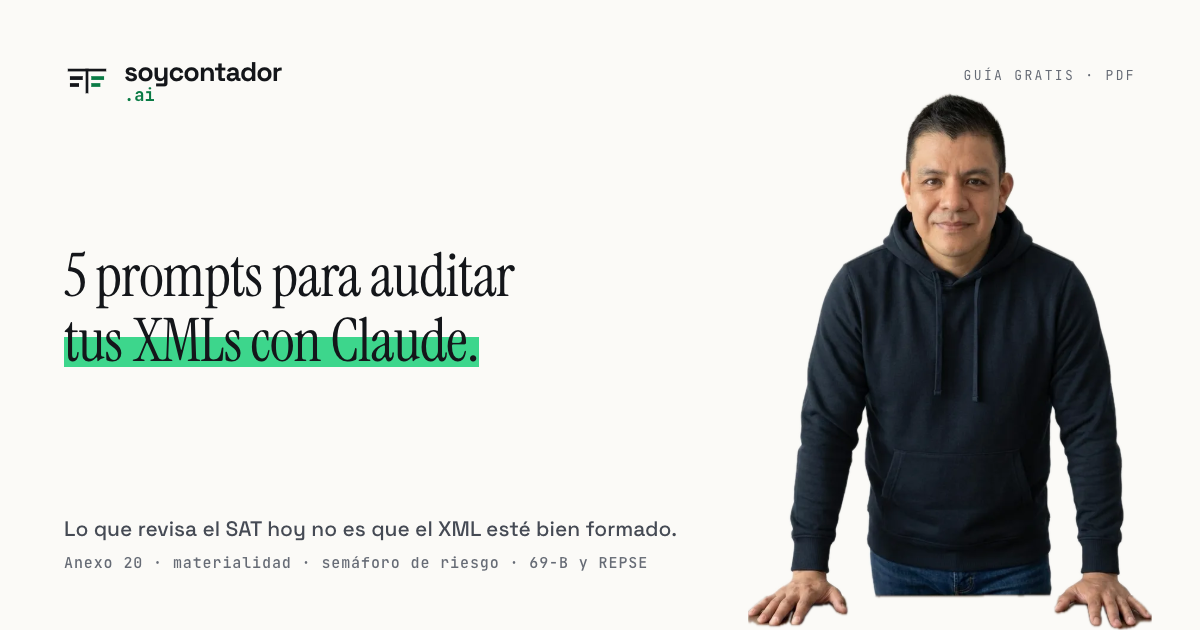
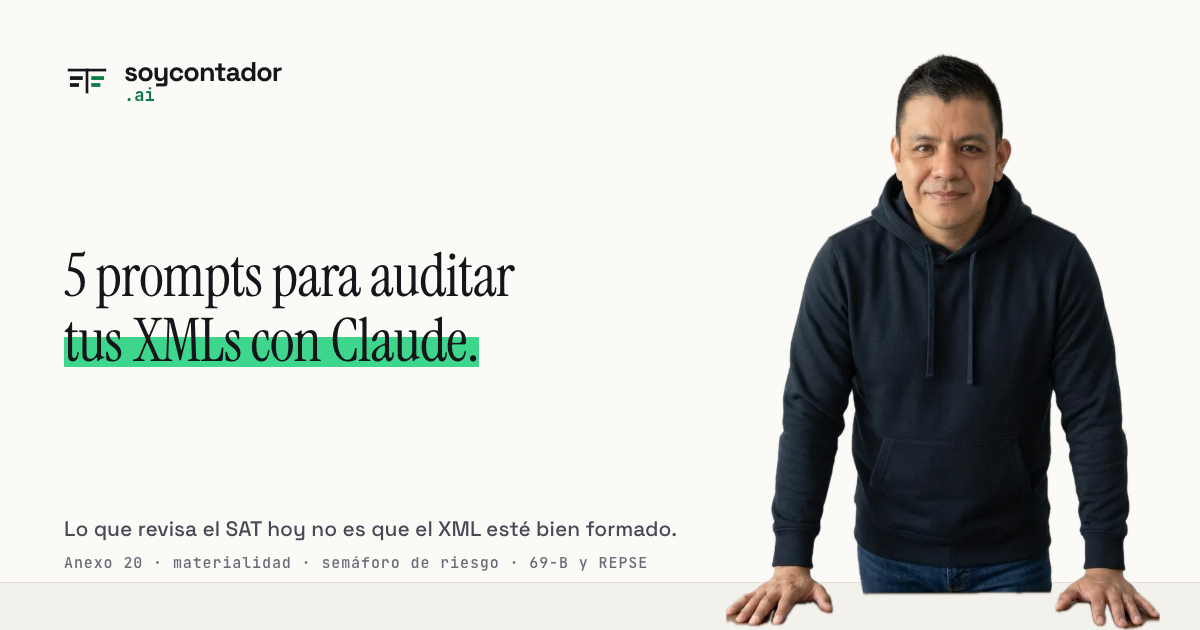
Las tarjetas pierden el folio y ganan retrato
Tres ajustes de Israel sobre los OG nuevos.

El folio de la esquina derecha se va de las tres. Repetía lo que ya dice el
titular y obligaba a bajar el retrato de 434 a 404px para no chocar con él.
Sin folio vuelve al tamaño de og-default, que es el que se ve bien.

/diagnostico cambia de invita-saco a arms-saco. La razón no es la pose en sí
sino que vive junto a /despachos en Destacados: con la misma pose las dos
tarjetas se leen como la misma repetida. Y el H1 de esa página es una
pregunta que interpela, así que los brazos cruzados acompañan mejor que una
invitación cálida.

/audita estrena .mesa. El retrato es la pose "apoyado", con las manos
plantadas sobre una superficie que el recorte no trae, así que descansaban
sobre el aire. Es una banda del surface de la marca con su filete, detrás de
la figura y con el borde a la altura de las manos. No es un mueble dibujado:
la geometría basta para que la figura se apoye en algo, y evita generar un
prop por i2i con el riesgo de deriva que eso trae.

Build OK.

Changed region(s): [[0.5858, 0.0905, 0.9867, 1.0], [0.8633, 0.6333, 0.8942, 0.7841], [0.8633, 0.0905, 0.8942, 0.1206]]

diff --git a/design/og/og-audita.html b/design/og/og-audita.html
@@ -39,8 +39,27 @@
   --accent: #0A7B45;
   --marker: #3DD68C;
   --line: #E3E0D8;
+  --surface: #F3F1EB;
 }
 * { margin: 0; padding: 0; box-sizing: border-box; }
+
+/*
+  La mesa. Existe por una razón concreta: el retrato es la pose "apoyado", con
+  las manos plantadas sobre una superficie que en el recorte no existe, así que
+  sin esto las manos descansan sobre el aire. Es una banda del papel de la
+  marca con su filete, no un mueble dibujado: la geometría basta para que la
+  figura se apoye en algo.
+
+  Va DETRÁS del retrato (z-index 0 contra el 1 del texto) y su borde superior
+  cae a la altura de las manos.
+*/
+.mesa {
+  position: absolute;
+  left: 0; right: 0; bottom: 0;
+  height: 48px;
+  background: var(--surface);
+  border-top: 1px solid var(--line);
+}
 body {
   position: relative;
   width: 1200px; height: 630px; overflow: hidden;
@@ -51,23 +70,20 @@ body {
   padding: 58px 64px 56px;
 }
 
-/* Cabecera: el logotipo del sitio a dos renglones, más el folio que dice
-   a quién le habla esta tarjeta. */
-.cab { display: flex; align-items: flex-start; justify-content: space-between; }
+/* Cabecera: solo el logotipo, a dos renglones.
+   El folio de la esquina derecha se quitó (2026-09-23): repetía lo que ya
+   dice el titular y le robaba alto al retrato, que tenía que bajar a 404px
+   para no chocar con él. Sin folio vuelve a los 434px de og-default. */
+.cab { display: flex; align-items: flex-start; }
 .logo { display: flex; align-items: center; gap: 14px; }
 .logo svg { width: 46px; height: 32px; color: var(--ink); }
 .wordmark { line-height: 1; }
 .wordmark .nombre { display: block; font-weight: 700; font-size: 27px; letter-spacing: -0.035em; }
 .wordmark .tld { display: block; font-family: "JetBrains Mono", monospace; font-weight: 700; font-size: 17px; color: var(--accent); margin-top: 2px; }
-.folio {
-  font-family: "JetBrains Mono", monospace; font-size: 13px;
-  letter-spacing: 0.18em; color: var(--ink-dim); padding-top: 9px;
-  text-transform: uppercase;
-}
 
 /* Cuerpo: el H1 de la página, tal cual. La caja se corta antes del retrato
    para que el texto nunca le caiga encima. */
-.cuerpo { display: grid; align-content: center; max-width: 700px; }
+.cuerpo { display: grid; align-content: center; max-width: 660px; }
 .titular {
   position: relative; z-index: 1;
   font-family: "Instrument Serif", serif; font-weight: 400;
@@ -107,21 +123,21 @@ body {
 */
 .retrato {
   position: absolute;
-  right: 48px;
+  right: 40px;
   bottom: 0;
-  width: 404px;
+  width: 434px;
   height: auto;
   display: block;
 }
 
 /* Pie: el remate de la página, que es el argumento de la venta. */
 .pie {
-  position: relative; z-index: 1;
+  position: relative; z-index: 2;
   font-size: 21px; font-weight: 500; line-height: 1.4;
   color: var(--ink-soft);
-  /* Hasta donde empieza el retrato (1200 - 48 de margen - 392 de ancho),
+  /* Hasta donde empieza el retrato (1200 - 40 de margen - 434 de ancho),
      menos un respiro. Con 640 el renglón mono se partía en dos. */
-  max-width: 700px;
+  max-width: 660px;
 }
 .pie .dato {
   display: block; margin-top: 10px;
@@ -146,7 +162,6 @@ body {
         <span class="tld">.ai</span>
       </span>
     </div>
-    <span class="folio">Guía gratis · PDF</span>
   </div>
 
   <div class="cuerpo">
@@ -160,6 +175,7 @@ body {
     </p>
   </div>
 
+  <div class="mesa"></div>
   <img class="retrato" src="../../public/assets/israel-apoyado-hoodie.webp" alt="">
 
   <p class="pie">

diff --git a/design/og/og-diagnostico.html b/design/og/og-diagnostico.html
@@ -11,9 +11,11 @@
    `node design/og/render.mjs og-diagnostico` y se escribe en
    public/og-diagnostico.png.
 
-   La pose es `invita-saco` y no `arms-saco`, a propósito: esta página pide
-   dar un paso, y los brazos cruzados leen como autoridad en vez de como
-   invitación. Es la misma prenda, otra energía.
+   La pose es `arms-saco` y NO la misma de /despachos, a propósito: las dos
+   tarjetas viven juntas en Destacados de LinkedIn, y con la misma pose se
+   leen como la misma tarjeta repetida. Además el H1 de esta página es una
+   pregunta que interpela, y los brazos cruzados acompañan eso mejor que
+   una invitación cálida.
 
    El copy NO se inventó: es el H1 de la página y su meta description.
    ============================================================ */
@@ -50,23 +52,20 @@ body {
   padding: 58px 64px 56px;
 }
 
-/* Cabecera: el logotipo del sitio a dos renglones, más el folio que dice
-   a quién le habla esta tarjeta. */
-.cab { display: flex; align-items: flex-start; justify-content: space-between; }
+/* Cabecera: solo el logotipo, a dos renglones.
+   El folio de la esquina derecha se quitó (2026-09-23): repetía lo que ya
+   dice el titular y le robaba alto al retrato, que tenía que bajar a 404px
+   para no chocar con él. Sin folio vuelve a los 434px de og-default. */
+.cab { display: flex; align-items: flex-start; }
 .logo { display: flex; align-items: center; gap: 14px; }
 .logo svg { width: 46px; height: 32px; color: var(--ink); }
 .wordmark { line-height: 1; }
 .wordmark .nombre { display: block; font-weight: 700; font-size: 27px; letter-spacing: -0.035em; }
 .wordmark .tld { display: block; font-family: "JetBrains Mono", monospace; font-weight: 700; font-size: 17px; color: var(--accent); margin-top: 2px; }
-.folio {
-  font-family: "JetBrains Mono", monospace; font-size: 13px;
-  letter-spacing: 0.18em; color: var(--ink-dim); padding-top: 9px;
-  text-transform: uppercase;
-}
 
 /* Cuerpo: el H1 de la página, tal cual. La caja se corta antes del retrato
    para que el texto nunca le caiga encima. */
-.cuerpo { display: grid; align-content: center; max-width: 700px; }
+.cuerpo { display: grid; align-content: center; max-width: 660px; }
 .titular {
   position: relative; z-index: 1;
   font-family: "Instrument Serif", serif; font-weight: 400;
@@ -106,9 +105,9 @@ body {
 */
 .retrato {
   position: absolute;
-  right: 48px;
+  right: 40px;
   bottom: 0;
-  width: 404px;
+  width: 434px;
   height: auto;
   display: block;
 }
@@ -118,9 +117,9 @@ body {
   position: relative; z-index: 1;
   font-size: 21px; font-weight: 500; line-height: 1.4;
   color: var(--ink-soft);
-  /* Hasta donde empieza el retrato (1200 - 48 de margen - 392 de ancho),
+  /* Hasta donde empieza el retrato (1200 - 40 de margen - 434 de ancho),
      menos un respiro. Con 640 el renglón mono se partía en dos. */
-  max-width: 700px;
+  max-width: 660px;
 }
 .pie .dato {
   display: block; margin-top: 10px;
@@ -145,7 +144,6 @@ body {
         <span class="tld">.ai</span>
       </span>
     </div>
-    <span class="folio">Diagnóstico · 5 preguntas</span>
   </div>
 
   <div class="cuerpo">
@@ -159,7 +157,7 @@ body {
     </p>
   </div>
 
-  <img class="retrato" src="../../public/assets/israel-saco-invita.webp" alt="">
+  <img class="retrato" src="../../public/assets/israel-saco-brazos.webp" alt="">
 
   <p class="pie">
     Dos minutos, y sabes qué tan expuesto está tu despacho.

diff --git a/design/og/og-despachos.html b/design/og/og-despachos.html
@@ -52,23 +52,20 @@ body {
   padding: 58px 64px 56px;
 }
 
-/* Cabecera: el logotipo del sitio a dos renglones, más el folio que dice
-   a quién le habla esta tarjeta. */
-.cab { display: flex; align-items: flex-start; justify-content: space-between; }
+/* Cabecera: solo el logotipo, a dos renglones.
+   El folio de la esquina derecha se quitó (2026-09-23): repetía lo que ya
+   dice el titular y le robaba alto al retrato, que tenía que bajar a 404px
+   para no chocar con él. Sin folio vuelve a los 434px de og-default. */
+.cab { display: flex; align-items: flex-start; }
 .logo { display: flex; align-items: center; gap: 14px; }
 .logo svg { width: 46px; height: 32px; color: var(--ink); }
 .wordmark { line-height: 1; }
 .wordmark .nombre { display: block; font-weight: 700; font-size: 27px; letter-spacing: -0.035em; }
 .wordmark .tld { display: block; font-family: "JetBrains Mono", monospace; font-weight: 700; font-size: 17px; color: var(--accent); margin-top: 2px; }
-.folio {
-  font-family: "JetBrains Mono", monospace; font-size: 13px;
-  letter-spacing: 0.18em; color: var(--ink-dim); padding-top: 9px;
-  text-transform: uppercase;
-}
 
 /* Cuerpo: el H1 de la página, tal cual. La caja se corta antes del retrato
    para que el texto nunca le caiga encima. */
-.cuerpo { display: grid; align-content: center; max-width: 700px; }
+.cuerpo { display: grid; align-content: center; max-width: 660px; }
 .titular {
   position: relative; z-index: 1;
   font-family: "Instrument Serif", serif; font-weight: 400;
@@ -108,9 +105,9 @@ body {
 */
 .retrato {
   position: absolute;
-  right: 48px;
+  right: 40px;
   bottom: 0;
-  width: 404px;
+  width: 434px;
   height: auto;
   display: block;
 }
@@ -120,9 +117,9 @@ body {
   position: relative; z-index: 1;
   font-size: 21px; font-weight: 500; line-height: 1.4;
   color: var(--ink-soft);
-  /* Hasta donde empieza el retrato (1200 - 48 de margen - 392 de ancho),
+  /* Hasta donde empieza el retrato (1200 - 40 de margen - 434 de ancho),
      menos un respiro. Con 640 el renglón mono se partía en dos. */
-  max-width: 700px;
+  max-width: 660px;
 }
 .pie .dato {
   display: block; margin-top: 10px;
@@ -147,7 +144,6 @@ body {
         <span class="tld">.ai</span>
       </span>
     </div>
-    <span class="folio">Capacitación in company</span>
   </div>
 
   <div class="cuerpo">

diff --git a/design/DESIGN.md b/design/DESIGN.md
@@ -180,6 +180,23 @@ tampoco es indistinta: `/despachos` usa `present-saco` y `/diagnostico` usa
 `invita-saco`, porque esa página pide dar un paso y los brazos cruzados leen
 como autoridad en vez de como invitación.
 
+**Sin folio en la esquina derecha.** Las tarjetas lo traían (`Capacitación in
+company`, `Guía gratis · PDF`) y se quitó el 2026-09-23: repetía lo que ya dice
+el titular y obligaba a bajar el retrato de 434 a 404px para no chocar con él.
+Sin folio, el retrato vuelve al tamaño de `og-default`.
+
+**Una pose por tarjeta, aunque compartan prenda.** `/despachos` y
+`/diagnostico` viven juntas en Destacados de LinkedIn: con la misma pose se
+leen como la misma tarjeta repetida. `/despachos` usa `present-saco` (explica
+el programa) y `/diagnostico` usa `arms-saco`, porque su H1 es una pregunta
+que interpela y los brazos cruzados acompañan eso mejor.
+
+**La pose "apoyado" necesita una mesa.** En `/audita` el retrato tiene las
+manos plantadas sobre una superficie que el recorte no trae, así que descansan
+sobre el aire. La plantilla dibuja `.mesa`: una banda del `surface` de la marca
+con su filete, detrás de la figura y con el borde a la altura de las manos. No
+es un mueble, es geometría, y con eso la figura se apoya en algo.
+
 **Un OG por avatar, no uno por sitio.** `og-default.html` le habla al
 **Avatar A** (la objeción de "esto es para los más jóvenes"), así que sirve
 para la home y las páginas de A. Las páginas del **Avatar B** necesitan el
